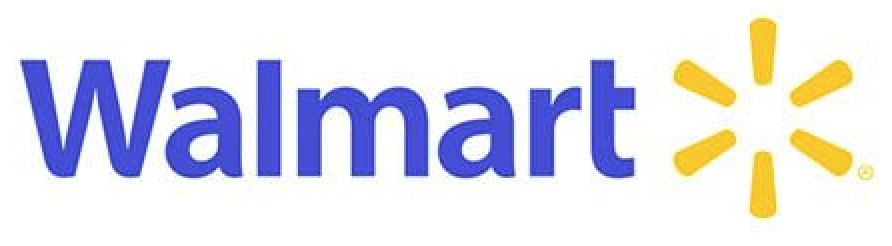
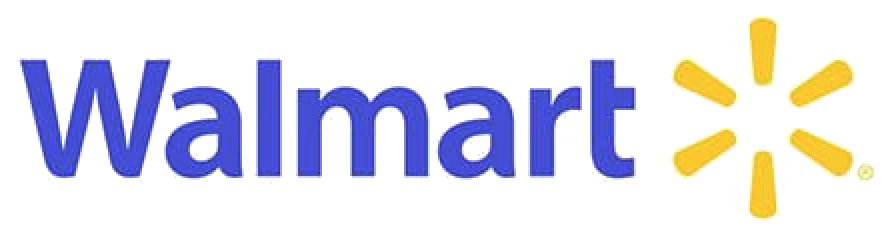
created userLoginScreen

diff --git a/code/css/style.css b/code/css/style.css
@@ -3,6 +3,8 @@
 /* 
 * https://www2.lunapic.com/editor/ 
 * link to edit images to get it to be transparent bg
+
+* different color palettes: https://colorhunt.co/palette/155497 
 */
 
 body,html{
@@ -24,15 +26,13 @@ body,html{
     margin-left: 100px;
     font-size: 20px;
     font-family: Verdana, Tahoma, sans-serif;
-    opacity: 0.8;
 }
 
 #storeLogo{
-    width: 160px;
-    height: 50px;
+    width: 200px;
+    height: 70px;
 } 
 
-/* different color palettes: https://colorhunt.co/palette/155497 */
 #circle {
     position: absolute;
     width: 370px;
@@ -122,23 +122,21 @@ a{
 }
 
 /* voice search */
-input[type=text] {
+input[type=search] {
     float: right;
-    padding: 10px 40px;
-    margin-top: 70px;
-    border: 6px solid;
-    border-color: #f0efef;
-    font-size: 17px;
+    padding: 20px 40px;
+    margin-top: 90px;
+    font-size: 200px;
     font-family: Verdana, Tahoma, sans-serif;
 }
 
 /*microphone img */
 #voiceAssist{
-    width: 80px;
-    height: 80px;
-    margin-top: 50px;
+    width: 60px;
+    height: 60px;
+    margin-top: 70px;
     margin-left: 20px;
-    margin-right: 40px;
+    margin-right: 150px;
     float: right;
 }
 
@@ -225,7 +223,7 @@ input[type=text] {
     margin-left: 800px;
 }
 
-#profile{
+.profile{
     margin-top: 5px;
     margin-right: 2px;
     margin-bottom: 10px;
@@ -415,4 +413,64 @@ input[type=text] {
     padding-left:25px;
     height: 60px;
     width: 30px;
+}
+
+/* customer log in page */
+
+#boxLayout{
+    width: 700px;
+    height: 400px;
+    background-color: #f0efef;
+    margin: auto;
+    width: 60%;
+    padding: 20px 10px;
+    margin-top: 200px;
+    position: absolute;
+    margin-left: 200px;
+}
+
+.userPage{
+    margin-top: 40px;
+    margin-left: 300px;
+    width: 150px;
+    height: 150px;
+}
+
+/*username and password container*/
+.container{
+    margin-top: 20px;
+    width: 50%;
+    margin-left: 210px;
+}
+
+input[type=text]{
+    padding: 10px 15px;
+    margin-top: 15px;
+    margin-left: 13px;
+    width: 45%;
+    font-size: 11px;
+    font-family: Verdana, Tahoma, sans-serif;
+}
+
+input[type=password] {
+    padding: 10px 15px;
+    margin-top: 15px;
+    margin-left: 16px;
+    width: 45%;
+    font-size: 11px;
+    font-family: Verdana, Tahoma, sans-serif;
+}
+button{
+    background-color: #3282b8;
+    color: #faf5e4;
+    padding: 10px 15px;
+    margin-top: 25px;
+    margin-left: 70px;
+    width: 50%;
+    border: none;
+    cursor: pointer;
+}
+
+button:hover{
+    opacity: 0.7;
 }

diff --git a/code/customerProfileEng.html b/code/customerProfileEng.html
@@ -1,0 +1,28 @@
+<!DOCTYPE html>
+<html lang ="en">
+<head>
+    <meta charset="UTF-8">
+    <meta name="viewport" content="width=device-width, initial-scale=1.0">
+    <title>SmartKart Customer Login</title>
+    <link rel="stylesheet" type="text/css" href="css/style.css">
+</head>
+<body>
+    <a id = "links" href = "mainPageEng.html">Go Back</a>
+    <form>
+    <div id = "boxLayout">
+        <div class ="profileImgContainer">
+            <img class ="profile userPage" alt = "Profile" src = "img/profile.png"> 
+        </div>
+        <div class = "container">
+            <label for = "username">Username:</label>
+            <input type ="text" name = "username" placeholder = "Enter username" required>
+            <br>
+            <label for = "password"> Password: </label>
+            <input type = "password" name = "password" placeholder="*******" required>
+            <br>
+            <button type="submit">Login </button>
+        </div>
+    </form>
+    </div>
+</body>
+</html>

diff --git a/code/mainPageEng.html b/code/mainPageEng.html
@@ -11,7 +11,7 @@
     <a id = "links" href = "index.html">Go Back</a>
     <div id = "searchButton">
         <img id ="voiceAssist" alt = "Voice Assist" src = "img/microphone.png">
-        <input type = "text" placeholder = "Search...">
+        <input type = "search" placeholder = "Search...">
     </div>
     
     <a href = "viewCartPage.html">
@@ -28,9 +28,9 @@
         </div>
     </a>
 
-    <a href = "AdminPage.html">
+    <a href = "customerProfileEng.html">
         <div id = "thirdBox">
-            <img id ="profile" alt = "Profile" src = "img/profile.png"> 
+            <img class ="profile" alt = "Profile" src = "img/profile.png"> 
             Profile
         </div>
     </a>
